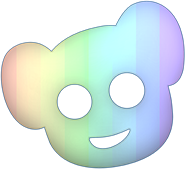
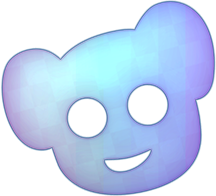
Add beta UX. Add Item uploads from Castle.Plug. Stub .cakes for lolnub. Clean.

diff --git a/priv/static/header.html b/priv/static/header.html
@@ -18,37 +18,53 @@
 
 <div id="page">
         
-    <header id="console" class="row">
-        <p id="poke" class="col-md-4">exe:</p>
-        
-        <form id="lolnub" action="/" method="get" accept-charset="utf-8" class="col-md-8">
-            <input id="execute" placeholder="#lolnub" size=42 >
+    <header id="console" class="content row">
+        <form id="lolnub" action="/" method="get" accept-charset="utf-8">
+            <label id="poke" class="col-md-4">#signals</label>
+            <input id="execute" placeholder="#lolnub" size=42 class="">
             <input type="submit" name="submit" value="#lolnub">
         </form>
     </header>
 
     <section class="content row">
-    
-    <div id="signals" class="content col-md-4">
-        <h1>#signals</h1>
-        <ul id="signals">
-            <li><a href="/">Magic</a></li>       
-            <li><a href="/signals">Signals</a></li>       
-            <li><a href="/programs">Programs</a></li>       
-            <li><a href="/items">Items</a></li>       
-            <li><a href="/players">Players</a></li>       
-        </ul>
-    </div>
-    
 
-    <div id="output" class="col-md-8">
-        <h1>#output</h1>
-    </div>
+        <div id="signals" class="col-md-4">
+            <img src="/img/lol-patches.png" alt="hi from patches">            
+            <ul id="">
+                <li>[<a href="/">magic</a>]</li>
+                <li><a href="/players">Players</a></li>
+                <li><a href="/signals">Signals</a></li>
+                <li><a href="/programs">Programs</a></li>
+                <li><a href="/items">Items</a></li>
+                <li>#todo: <br><em>superpowers</em></li>
+            </ul>
+        </div>
+        
+        
+        <div id="output" class="col-md-8">            
+            <section class="content row">
+                <p><a href="#">Share something?</a></p>
+            	<form method="post" action="/push" name="submit" enctype="multipart/form-data" class="form-horizontal" role="form">		              
+            		<input name="item[content]" class="form-control" type="file" ><br>
+                    <textarea name="item[program]" placeholder="#lolnub" class="col-md" cols=28 rows=8></textarea>
+                    
+                    <img src="/img/lol-nubcake.png" alt="hi from patches" class="pull-right">
+                    <input type="submit" name="submit" value="#lolnub">                    
+                </form>
+            </section>
+            
+            <section href="#" class="content row">
+                <p><a href="#">Set your Privacy preference?</a></p>
+                <img src="/img/broadcast.png" alt="hi from patches">
+                <img src="/img/bepicky.png" alt="hi from patches">
+                <img src="/img/blackout.png" alt="hi from patches">  
+            </section>
+        </div>
+        
+        
+
     </section>
-    
-<code>
-    
-    
+
 
 <!--
     <p id="copyright">

diff --git a/priv/static/css/default.css b/priv/static/css/default.css
@@ -4,19 +4,22 @@ html,
 body {
   font: sans;
   color: #fff;
-  font-size: 150%;
+  font-size: 142%;
   padding: 0px;
   margin: 0px;
   /*background: #040404;*/
   background: #0a0a0a;
 }
-
-html {
+body {
+  font-family: "HelveticaNeue-Light", "Helvetica Neue Light", "Helvetica Neue", Helvetica, Arial, "Lucida Grande", sans-serif; 
+  font-weight: 300;
+  word-spacing: 2px;
+  letter-spacing: 2.5px;
+  color: #999fa0;
 }
 
 header {
-  background-color: #161616;
-  padding: 20px;
+  background: rgb(0, 0, 0);
 }
 
 h1 {
@@ -30,18 +33,10 @@ input {
   font-size: 16px;
 }
 
-a:hover {
-  color: #c4adfe;
-  background-color: #4e00cc;
-}
-
-body a {
-  color: rgba(26, 169, 254, 0.45);
-}
 
 ol,
 ul {
-  padding: 0;
+  margin: 0;
 }
 
 ul li {
@@ -54,14 +49,10 @@ h2,
 h3,
 h4,
 h5,
-h6,
-#poke {
+h6 {
   color: rgba(255, 255, 255, 0.29);
   padding-left: 40px;
-  font-family: "Helvetica Neue", Arial, Helvetica, Geneva, sans-serif;
-  font-weight: bold;
   text-transform: lowercase;
-  letter-spacing: -1px;
 }
 
 code {
@@ -73,26 +64,44 @@ code {
 
 /* custom */
 
+.content form {
+  background-color: #53bcfe;
+  padding: 20px;
+  border-radius: 2px;
+}
+
 #console {
-  padding: 0;
+  height: 80px;
+  max-height: 80px;
+}
+
+#console #lolnub {
+  height: 80px;
+  background: transparent;
+}
+
+#poke,
+#lolnub #execute {
+    font-size: 28px;
+  line-height: 80px;
 }
 
 #poke {
   text-align: right;
-  color: #fe750c;
-  margin-top: 25px;
+  color: #910aff;
+  font-weight: normal;
+  font-style: normal;
 }
 
 #lolnub {
-  margin: 0;
-  background-color: #1f0063;
+  overflow: hidden;
 }
-
 #lolnub #execute {
-  padding: 20px 10px 20px 30px;
-  font-size: 42px;
+  border-style: none;
+  border-width: 0;
+  font-weight: normal;
+  font-style: normal;
   color: #910aff;
-  border: none;
   background: transparent;
 }
 
@@ -101,32 +110,50 @@ code {
 }
 
 #lolnub input[type=submit] {
-  margin-left: -9000px;  
+  margin-left: -9000px;
+  font-weight: lighter;
+  font-style: normal;
 }
 
 #signals {
-  background: #181818;
   text-align: right;
+  padding: 40px;
 }
 
 #signals li {
   text-transform: lowercase;
   display: block;
+  margin: 10px;
+  color: #5d5d5d;
 }
 
-#signals li a {
-  color: rgb(26, 169, 254);
+#signals li em {
+  color: #8b8b8b;
+  font-weight: bold;
 }
 
-#output {
-  background: url('../images/bg.jpg') left top no-repeat #000000;
+#output {  
+  padding-top: 20px;
+  padding-right: 40px;
+  padding-left: 40px;
 }
 
+#output section {
+  padding: 40px;
+  background-color: rgba(255, 255, 255, 0.12);
+    background: transparent;
+  margin-bottom: 40px;
+}
 
+body a {
+  color: rgb(18, 146, 229);
+  border-bottom: 1.5px solid rgba(0, 115, 185, 0.45);
+}
 
-
-
-
-
+body a:hover {
+  background-color: #4e00cc;
+  color: #ffffff;
+  border-bottom: none;
+}
 
 

diff --git a/priv/static/footer.html b/priv/static/footer.html
@@ -1,8 +1,6 @@
-</code>
-
 </div>
     <script type="text/javascript" src="js/libs/jquery.js"></script>
-    <script src='http://cdn.ractivejs.org/latest/ractive.min.js'></script>
+    <script src="http://cdn.ractivejs.org/latest/ractive.min.js"></script>
     <script type="text/javascript" src="js/libs/bootstrap.js"></script>
     <script type="text/javascript" src="js/app.js"></script>
     
